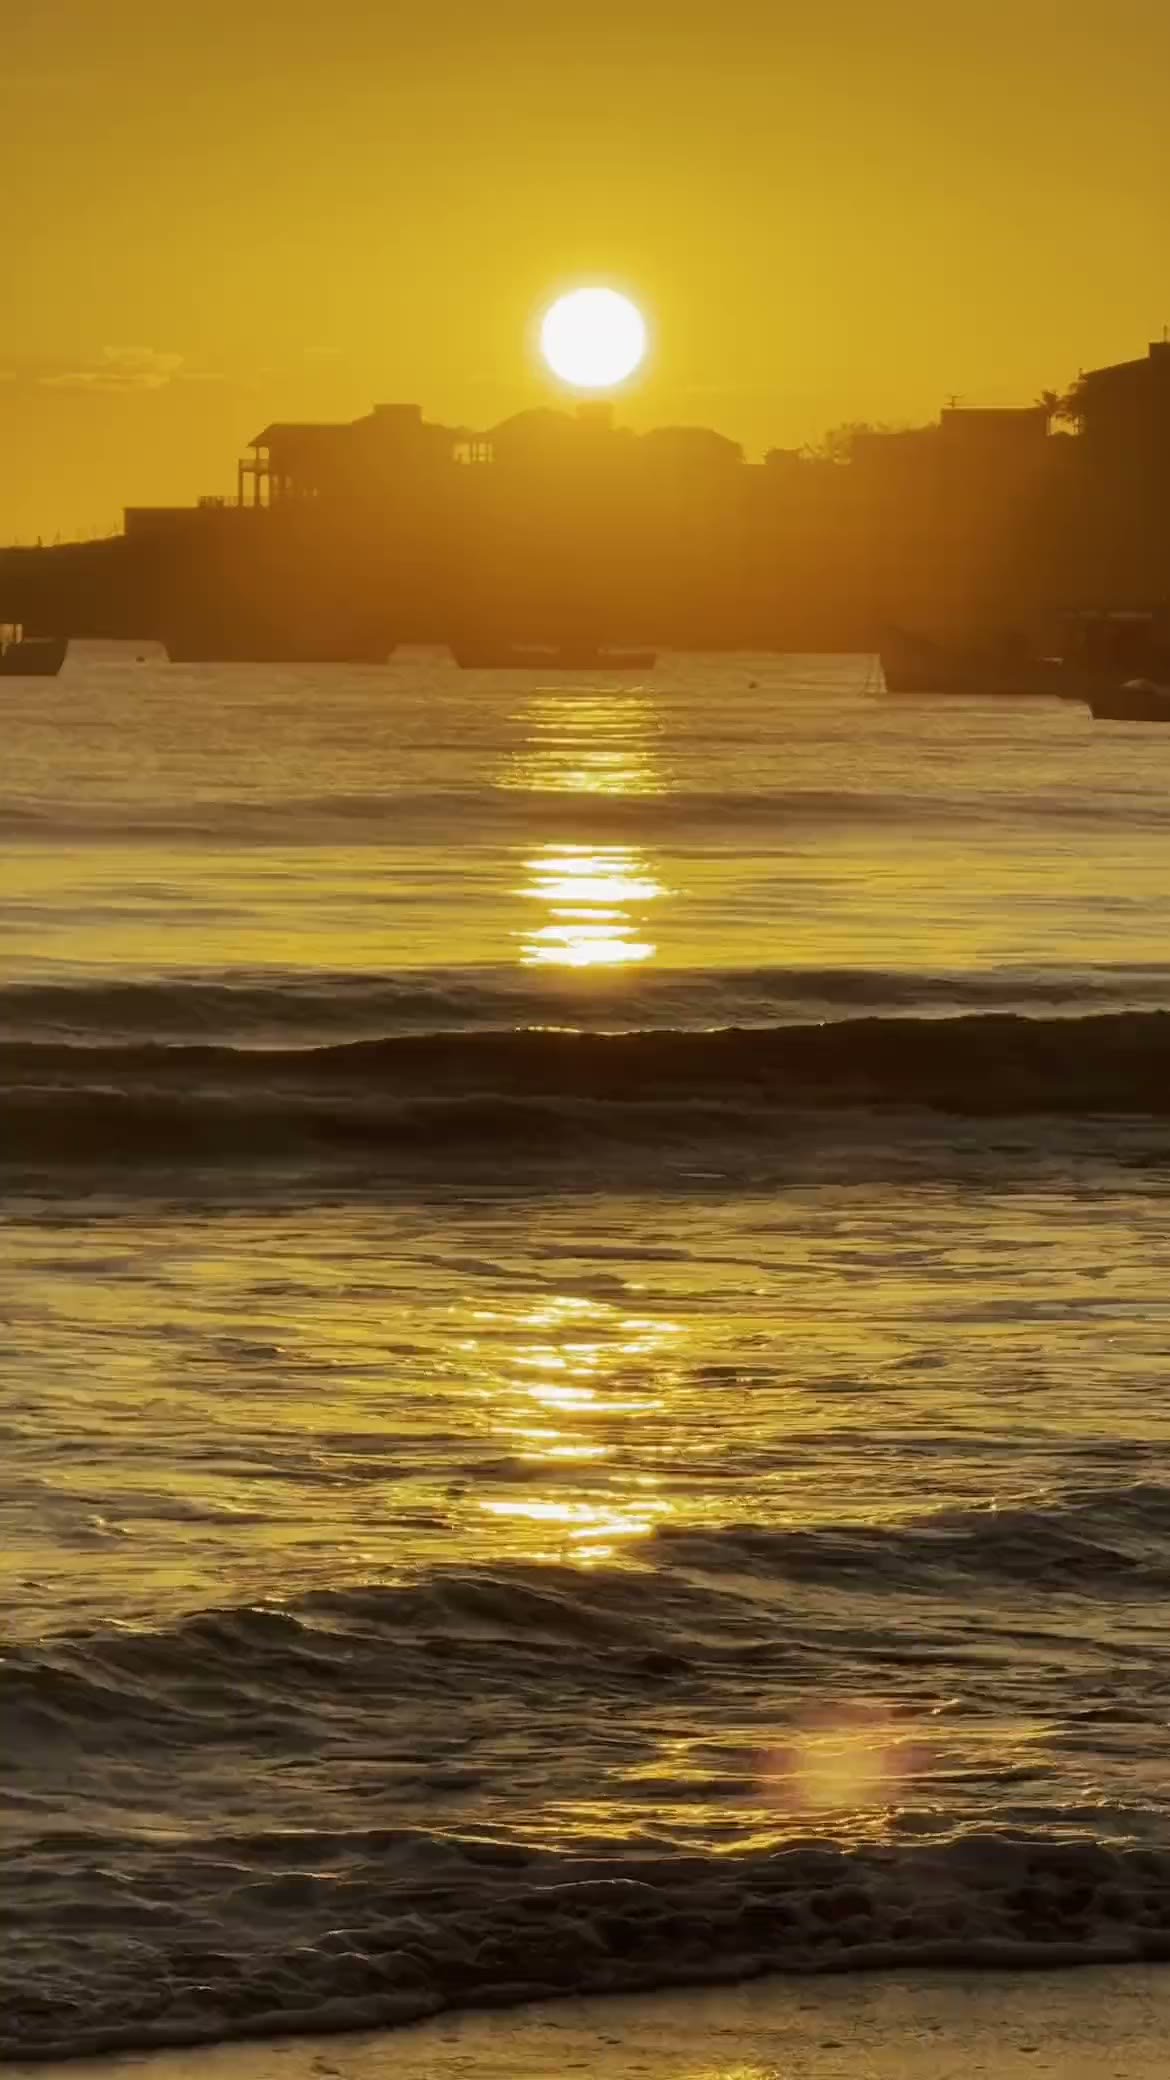
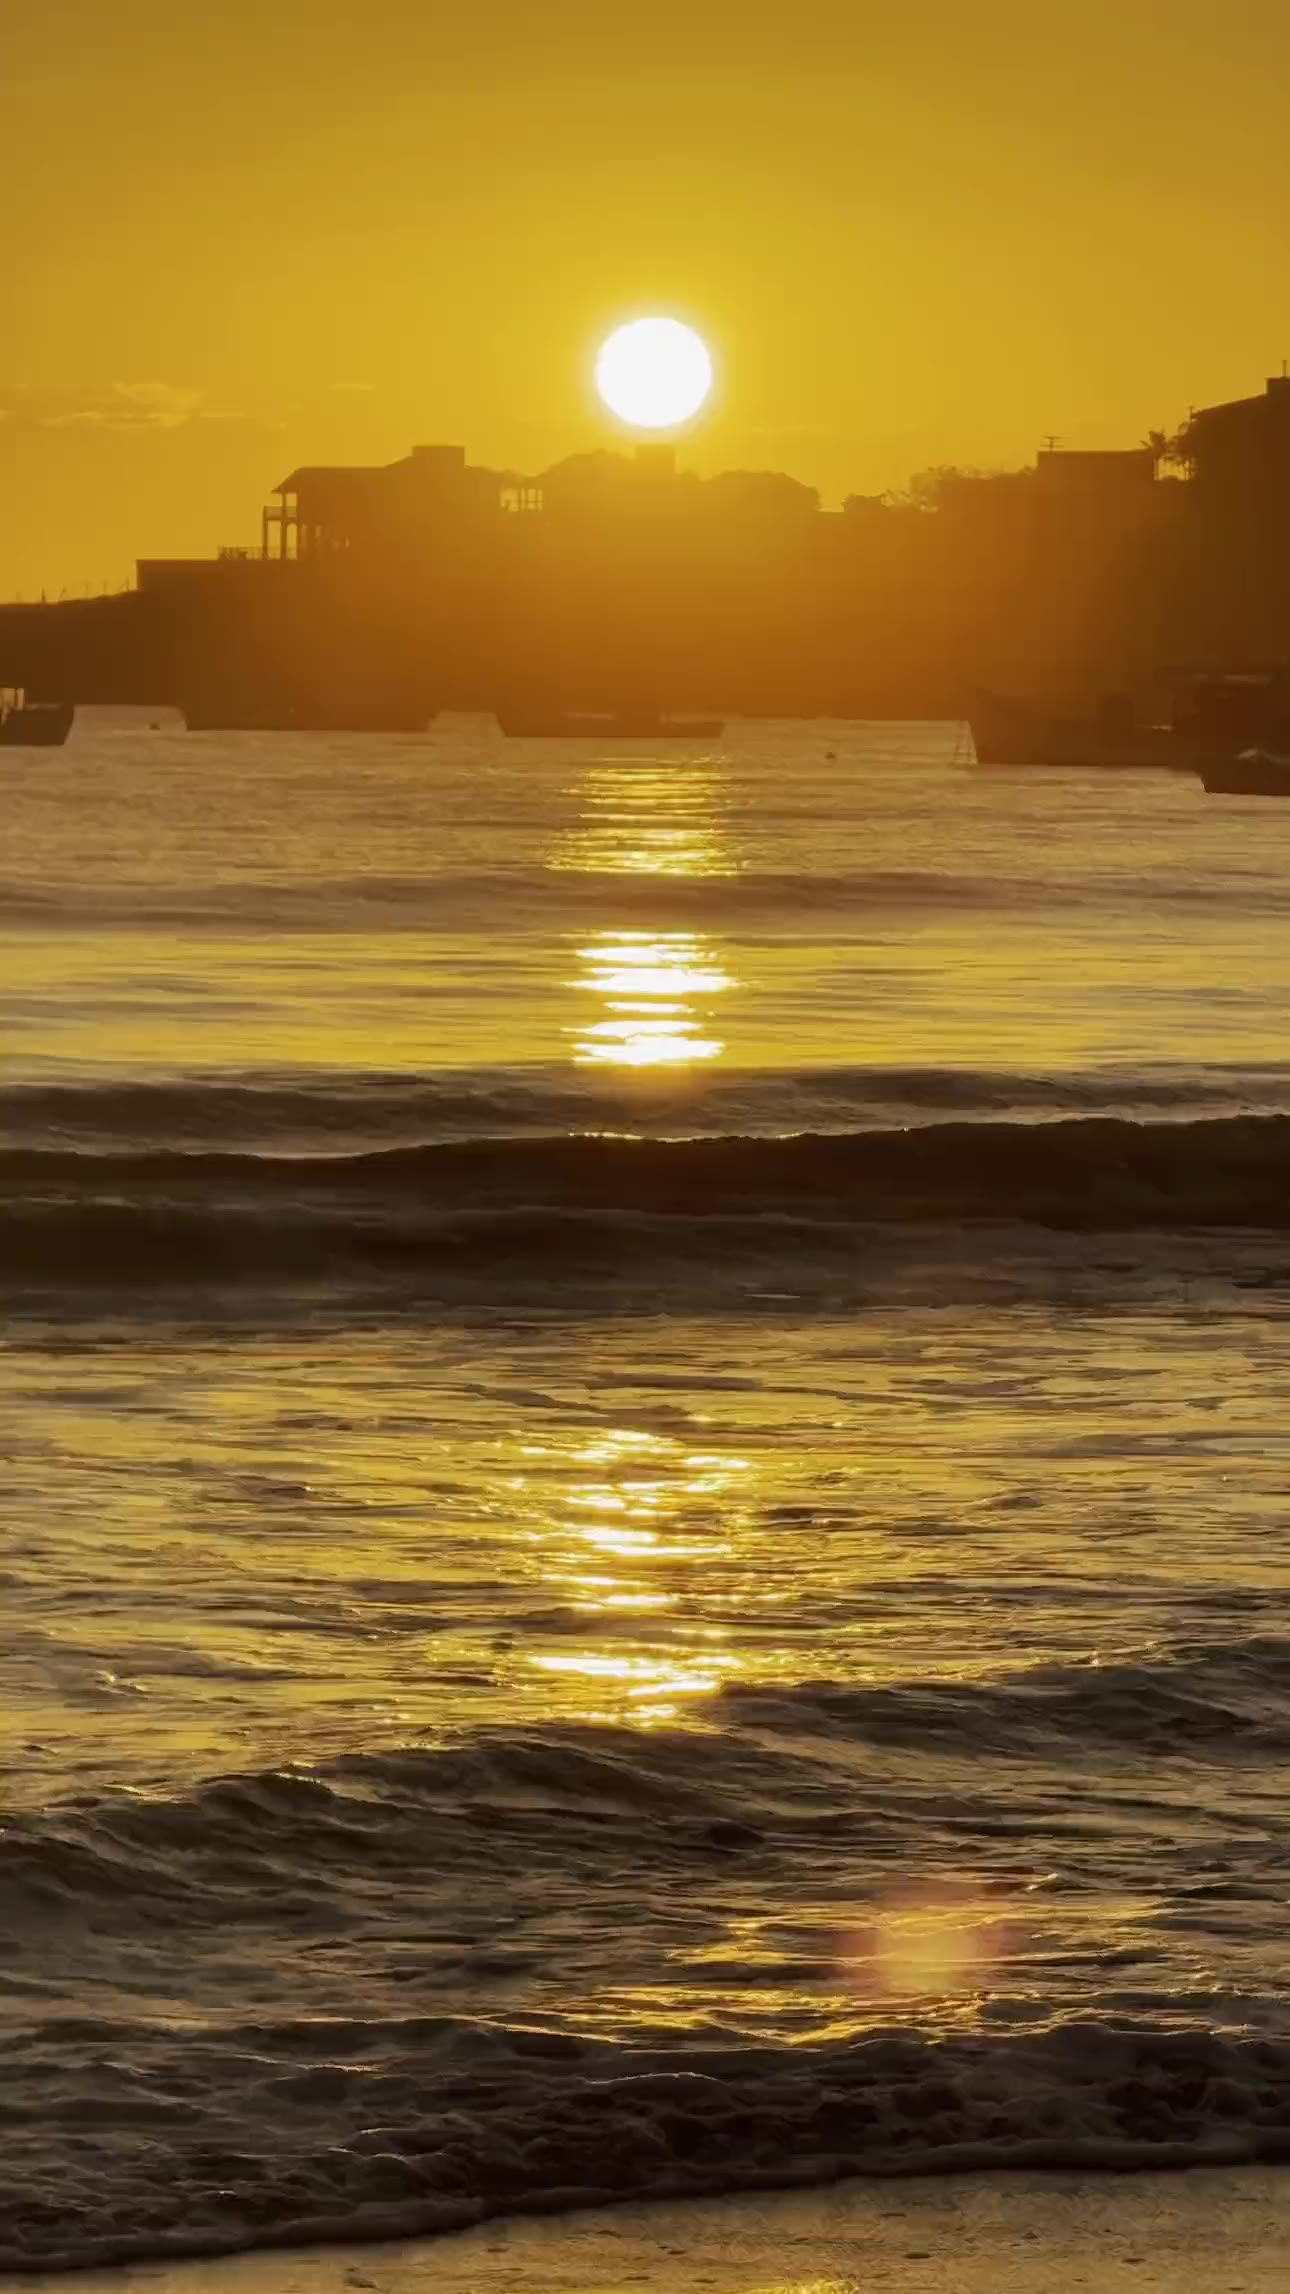
Convite ao som: redesenho pra ser impossível de não ver (sem virar modal)
PARTE 1 — vídeo do hero:
- hero_loop.mp4 novo take (1290x2294, ~4.8MB) + hero_poster.jpg = frame 0 (handoff sem salto)

PARTE 2 — convite ("gravei o som do mar..."):
- Legibilidade: texto 0.88 -> 0.97, sombra dupla mais forte, posição 45% -> 46%
- Movimento (o que mais resolve): entrada com fade+sobe e "ouvir" pulsando opacity
  0.82<->1.0 em 4.8s, no mesmo ritmo da maré/onda que ja existe
- "ouvir": sublinhado ambar fino (--vc-ambar) que respira junto, sem icone;
  "seguir em silencio" continua presente e digno (sem ambar, sem pulso)
- Scrim: poca de penumbra radial muito suave + blur atras do texto (so legibilidade,
  nao e caixa/modal, sem bloqueio de scroll)
- prefers-reduced-motion: zera pulso e respirar, convite segue visivel e funcional
- Colisao medida livre em 5 viewports; gating do IO e audio-por-gesto intactos (zero JS)

diff --git a/index.html b/index.html
@@ -714,21 +714,37 @@
       position: absolute;
       left: 1.75rem;
       right: 1.75rem;
-      top: 45%;
+      top: 46%;
       z-index: 3;
       max-width: 340px;
       opacity: 0;
+      transform: translateY(12px);
       pointer-events: none;
-      transition: opacity 1s ease;
+      transition: opacity 1.1s cubic-bezier(0.16,1,0.3,1), transform 1.1s cubic-bezier(0.16,1,0.3,1);
+    }
+    /* scrim: poça de penumbra MUITO suave atrás do texto, só pra legibilidade — sem caixa, sem borda */
+    .hero__som-convite::before {
+      content: "";
+      position: absolute;
+      z-index: -1;
+      left: -1.75rem; right: -1.5rem; top: -1.5rem; bottom: -1.25rem;
+      background: radial-gradient(ellipse 80% 74% at 30% 40%,
+        rgba(16,20,23,0.42) 0%,
+        rgba(16,20,23,0.24) 42%,
+        rgba(16,20,23,0) 74%);
+      pointer-events: none;
+      filter: blur(3px);
     }
     .hero__som-convite.is-visible {
       opacity: 1;
+      transform: translateY(0);
       pointer-events: auto;
     }
     .hero__som-convite.is-hiding {
       opacity: 0;
+      transform: translateY(6px);
       pointer-events: none;
-      transition: opacity 0.6s ease;
+      transition: opacity 0.6s ease, transform 0.6s ease;
     }
     .hero__som-texto {
       font-family: 'Fraunces', serif;
@@ -736,10 +752,10 @@
       font-style: italic;
       font-size: clamp(0.9375rem, 2.4vw, 1.0625rem);
       line-height: 1.55;
-      color: rgba(246,239,229,0.88);
+      color: rgba(246,239,229,0.97);
       letter-spacing: 0.008em;
       margin-bottom: 1rem;
-      text-shadow: 0 1px 2px rgba(16,20,23,0.62), 0 2px 18px rgba(16,20,23,0.68);
+      text-shadow: 0 1px 2px rgba(16,20,23,0.72), 0 2px 20px rgba(16,20,23,0.8);
     }
     .hero__som-opcoes {
       display: flex;
@@ -765,6 +781,21 @@
     }
     .hero__som-btn:hover,
     .hero__som-btn:focus-visible { color: var(--vc-sal); }
+    /* "ouvir": o caminho convidado — sublinhado âmbar fino que respira junto com a palavra (sem ícone) */
+    .hero__som-btn--ouvir {
+      color: rgba(246,239,229,1);
+      text-decoration: underline;
+      text-decoration-color: var(--vc-ambar);
+      text-decoration-thickness: 1.5px;
+      text-underline-offset: 5px;
+    }
+    .hero__som-convite.is-visible .hero__som-btn--ouvir {
+      animation: convitePulso 4.8s ease-in-out infinite;
+    }
+    @keyframes convitePulso {
+      0%, 100% { opacity: 0.82; }
+      50%      { opacity: 1; }
+    }
     .hero__som-sep {
       color: rgba(246,239,229,0.32);
       font-family: 'Manrope', sans-serif;
@@ -809,8 +840,10 @@
       .hero__som-convite { top: 33%; }
     }
     @media (prefers-reduced-motion: reduce) {
-      .hero__som-convite,
-      .hero__som-convite.is-hiding { transition: opacity 0.2s ease; }
+      .hero__som-convite { transition: opacity 0.2s ease; transform: none; }
+      .hero__som-convite.is-visible,
+      .hero__som-convite.is-hiding { transform: none; transition: opacity 0.2s ease; }
+      .hero__som-convite.is-visible .hero__som-btn--ouvir { animation: none; }
     }
 
     /* === REVEAL === */
@@ -888,7 +921,7 @@
       <div class="hero__som-convite" id="som-convite" aria-live="polite">
         <p class="hero__som-texto">gravei o som do mar de garopaba pra este instante.</p>
         <div class="hero__som-opcoes" role="group" aria-label="opções de som">
-          <button class="hero__som-btn" id="btn-ouvir" type="button">ouvir</button>
+          <button class="hero__som-btn hero__som-btn--ouvir" id="btn-ouvir" type="button">ouvir</button>
           <span class="hero__som-sep" aria-hidden="true">·</span>
           <button class="hero__som-btn" id="btn-silencio" type="button">seguir em silêncio</button>
         </div>